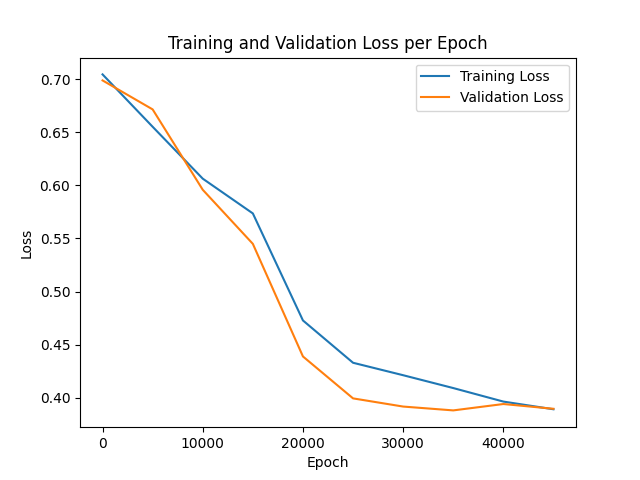
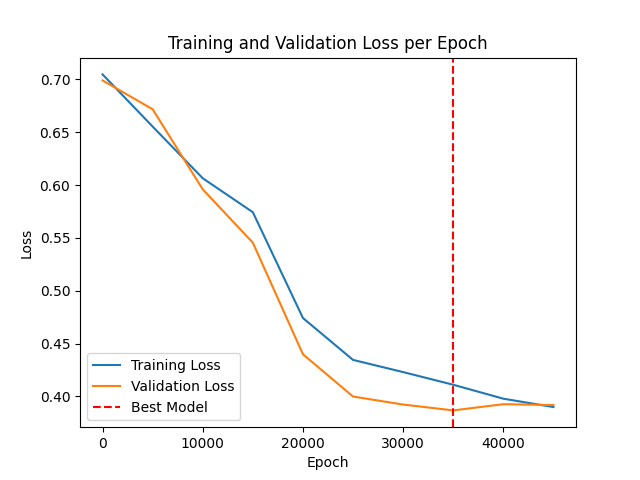
titanic: E35000 L0.387 A0.81 implement early stopping

diff --git a/titanic/titanic.py b/titanic/titanic.py
@@ -189,13 +189,18 @@ EPOCHS: Final = 50000
 val_losses = []
 losses = []
 epochs = []
+
+PATIENCE: Final = 2
+best_loss = float("inf")
+counter = 0
+best_model_state = None
+best_model_epoch = None
+
 for epoch in range(EPOCHS):
     optimizer.zero_grad()
     output = model(X_train)
     loss = criterion(output, y_train)
     loss.backward()
-    if SUBMIT and epoch % (EPOCHS // 10) == 0:
-        print(f"titanic: L{round(loss.item(), 3)}")
     optimizer.step()
 
     if not SUBMIT and epoch % (EPOCHS // 10) == 0:
@@ -204,13 +209,29 @@ for epoch in range(EPOCHS):
             val_loss = criterion(val_output, y_val)
             val_pred = (val_output > 0.5).float()
             val_accuracy = (val_pred == y_val).float().mean()
+
             print(
-                f"titanic: L{round(val_loss.item(), 3)} A{round(val_accuracy.item(), 3)}"
+                f"titanic: E{epoch} L{round(val_loss.item(), 3)} A{round(val_accuracy.item(), 3)}"
             )
 
             losses.append(loss.item())
             epochs.append(epoch)
             val_losses.append(val_loss.item())
+
+            if val_loss.item() < best_loss:
+                best_loss = val_loss.item()
+                counter = 0
+                best_model_state = model.state_dict()
+                best_model_epoch = epoch
+            else:
+                counter += 1
+
+            if counter >= PATIENCE:
+                print(f"Early stopping triggered at epoch {epoch}")
+                break
+
+print(f"Best model state @ epoch {best_model_epoch}")
+model.load_state_dict(best_model_state)
 
 X_test = pipeline(test_data)
 
@@ -226,12 +247,13 @@ with open("/kaggle/working/submission.csv", "w", newline="") as csvfile:
     for row in submission_data:
         csvwriter.writerow(row)
 
-plt.plot(epochs, losses, label="Training Loss")
-plt.plot(epochs, val_losses, label="Validation Loss")
-plt.xlabel("Epoch")
-plt.ylabel("Loss")
-plt.title("Training and Validation Loss per Epoch")
-plt.legend()
 if not SUBMIT:
+    plt.plot(epochs, losses, label="Training Loss")
+    plt.plot(epochs, val_losses, label="Validation Loss")
+    plt.axvline(x=best_model_epoch, color="r", linestyle="--", label="Best Model")
+    plt.xlabel("Epoch")
+    plt.ylabel("Loss")
+    plt.title("Training and Validation Loss per Epoch")
+    plt.legend()
     plt.savefig("./titanic/LossVersusEpoch.png")
     plt.show()
